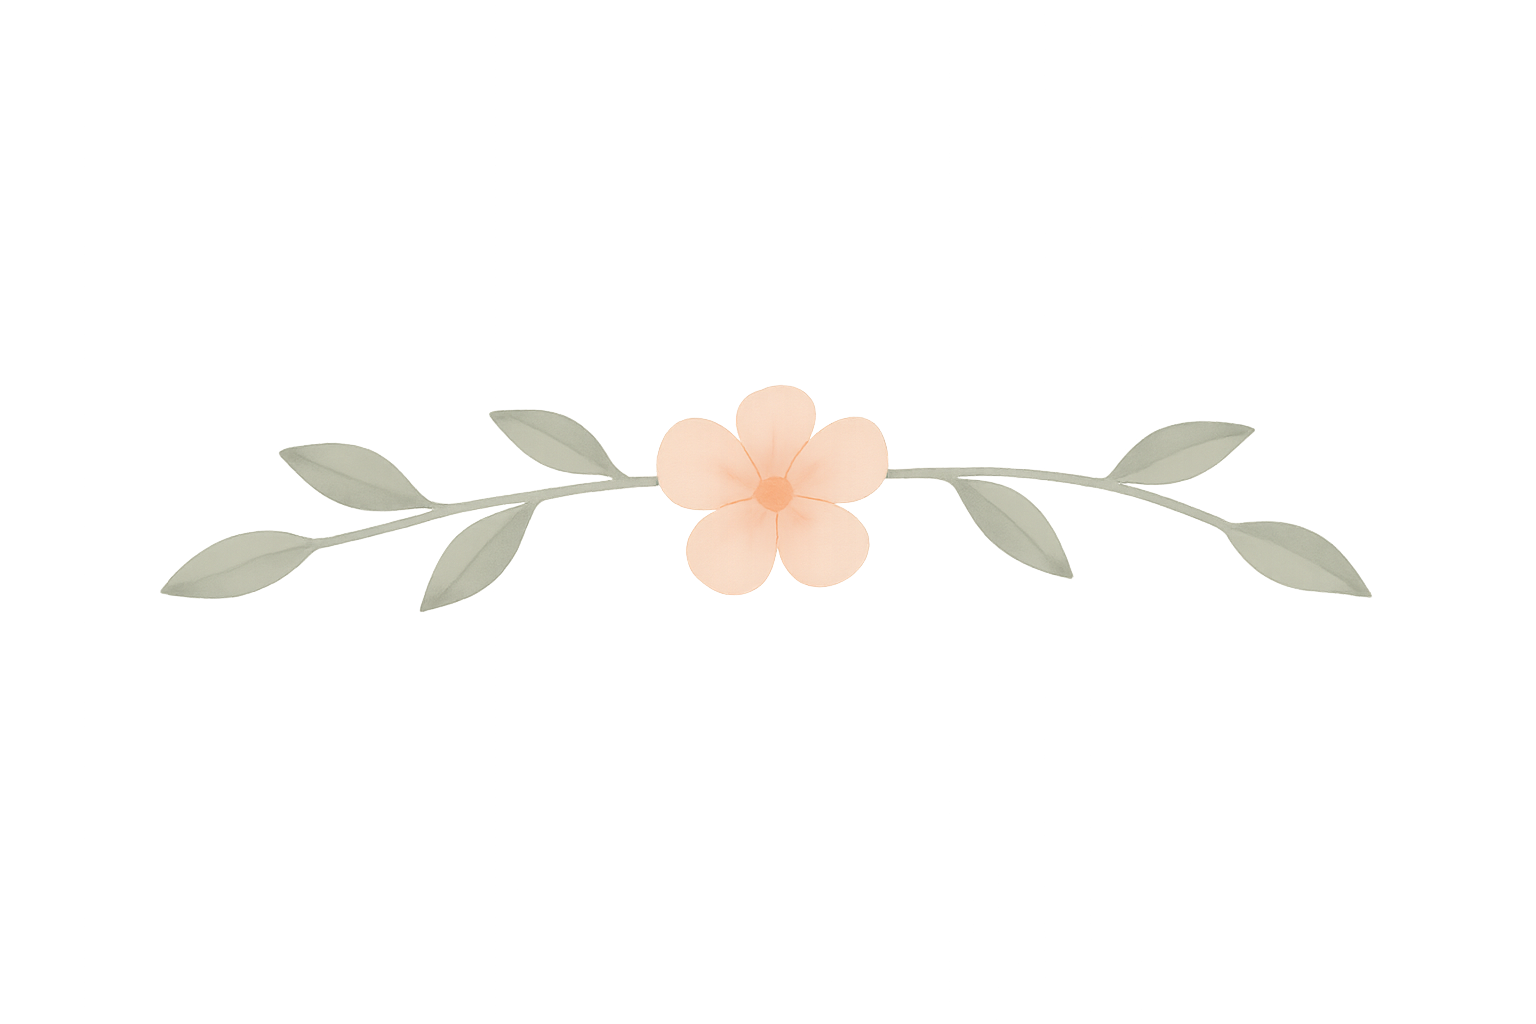
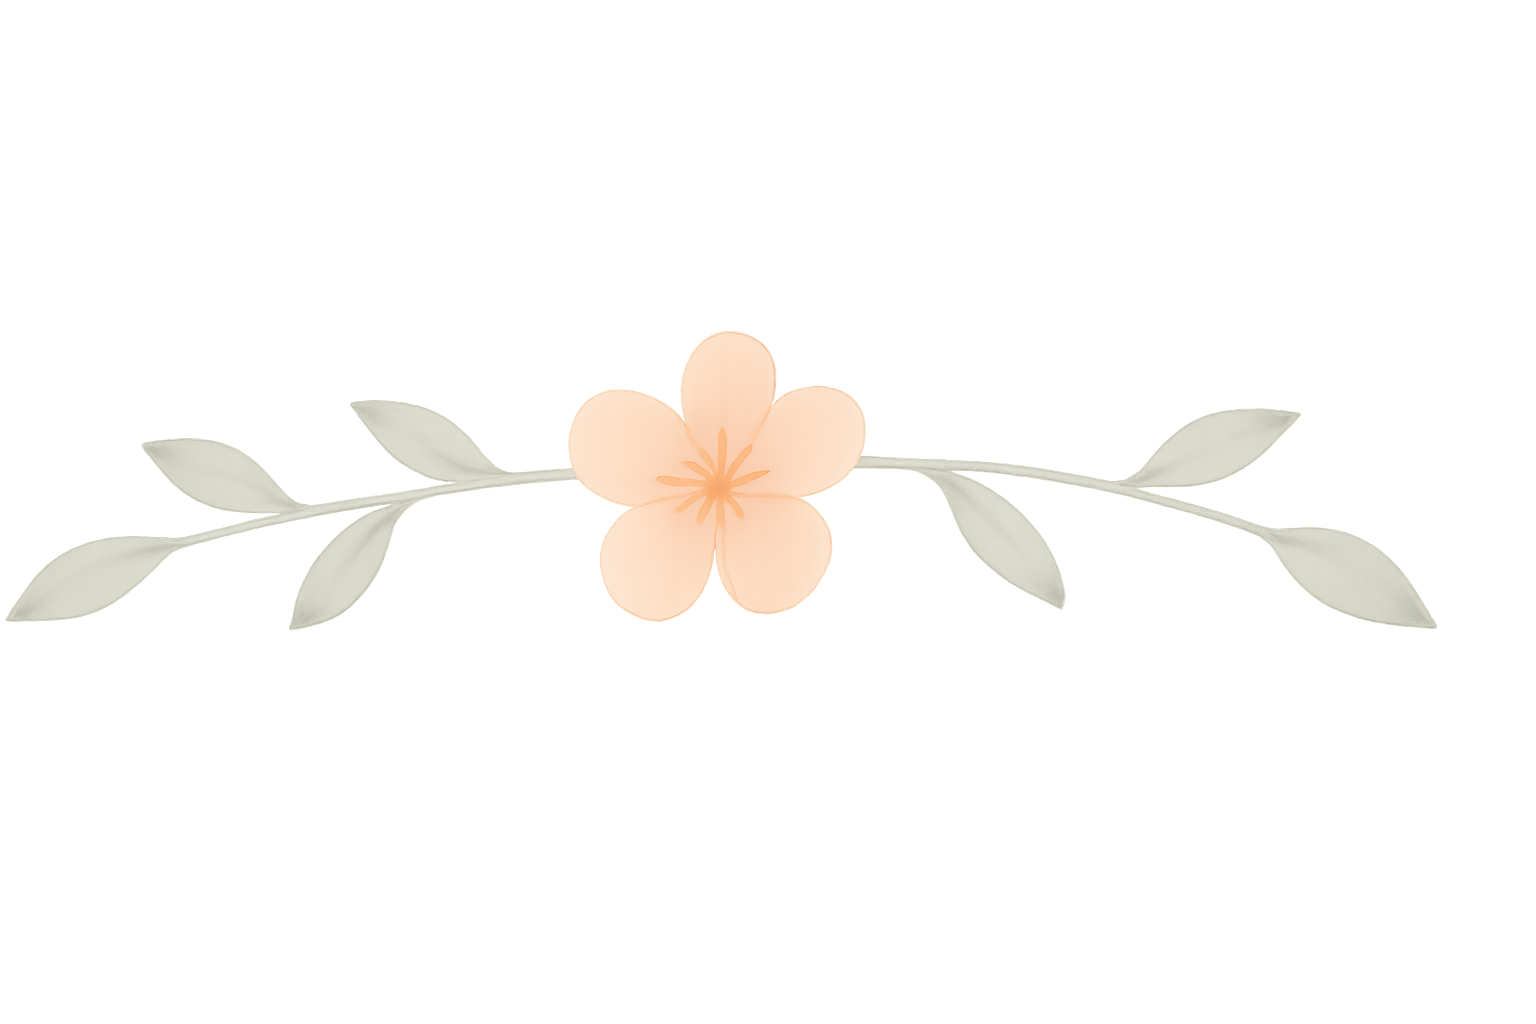
added horizontal separater and some images

Changed region(s): [[0.0, 0.3125, 0.8438, 0.625], [0.7812, 0.5, 0.9375, 0.625]]

diff --git a/frontend/app/globals.css b/frontend/app/globals.css
@@ -26,6 +26,55 @@ body {
 .container { max-width: 1060px; margin: 0 auto; padding: 0 20px; }
 .section { padding: 80px 0; position: relative; }
 .section.alt { background: rgba(255,255,255,0.6); backdrop-filter: blur(2px); }
+/* Set a shared height for the separators so side vines can align */
+.section + .section { --sep-h: clamp(48px, 10vw, 120px); }
+
+/* Horizontal vine separator between sections */
+.section + .section::before {
+  content: "";
+  display: block;
+  width: min(640px, calc(100% - 80px));
+  height: var(--sep-h);
+  margin: -12px auto 24px;
+  background-image: url('/vines-horizontal.png');
+  background-repeat: no-repeat;
+  background-position: center;
+  background-size: contain;
+  pointer-events: none;
+  filter: saturate(0.95);
+  opacity: 0.85;
+}
+
+/* Create flanking minimal vines tied to the section's container */
+.section + .section .container { position: relative; z-index: 0; }
+.section + .section .container > * { position: relative; z-index: 1; }
+.section + .section .container::before,
+.section + .section .container::after {
+  content: "";
+  position: absolute;
+  top: calc(-0.5 * var(--sep-h) - 76px);
+  width: var(--sep-h);
+  height: var(--sep-h);
+  background-image: url('/vines-left-minimal.png');
+  background-repeat: no-repeat;
+  background-position: center;
+  background-size: contain;
+  pointer-events: none;
+  filter: saturate(0.95);
+  opacity: 0.85;
+  z-index: 0; /* under content */
+}
+.section + .section .container::before { /* Left side - rotate 90° and mirror */
+  left: calc(50% - min(640px, calc(100% - 80px)) / 2 - var(--sep-h));
+  transform: rotate(90deg) scaleX(-1);
+  transform-origin: center;
+}
+.section + .section .container::after { /* Right side - rotate 270° */
+  right: calc(50% - min(640px, calc(100% - 80px)) / 2 - var(--sep-h));
+  transform: rotate(270deg);
+  transform-origin: center;
+}
+
 .section-title { font-size: 56px; margin: 0 0 16px; color: var(--ink); }
 .lead { font-size: 20px; line-height: 1.7; color: var(--ink-soft); }
 .muted { color: #5f6e6a; }
@@ -119,6 +168,14 @@ body {
   .section { padding: 48px 0; }
   .container { padding: 0 16px; }
   
+  /* Smaller separator on mobile */
+  .section + .section::before {
+    width: min(440px, calc(100% - 36px));
+    height: var(--sep-h);
+    margin: -6px auto 16px;
+  }
+  .section + .section { --sep-h: clamp(28px, 12vw, 64px); }
+  
   /* Fix RSVP form overflow */
   .rsvp-form { 
     flex-direction: column; 
@@ -198,40 +255,29 @@ body {
   background-position: top right; 
 }
 
-/* Bottom corner graphics */
-.vine-layer--bottom::before,
+/* Bottom corner graphics - right side only */
 .vine-layer--bottom::after {
   content: "";
   position: absolute;
   display: block;
   top: auto;
   bottom: 0;
+  right: -40px;
+  left: auto;
   width: clamp(160px, 22vw, 400px);
   height: min(50vh, 500px);
   background-image: url('/vines.png');
   background-repeat: no-repeat;
-  background-position: bottom left;
+  background-position: bottom right;
   background-size: contain;
-}
-.vine-layer--bottom::before { 
-  left: -40px; 
-  right: auto; 
-  transform: scaleY(-1); 
-  transform-origin: left bottom; 
-}
-.vine-layer--bottom::after { 
-  right: -40px; 
-  left: auto; 
-  transform: scale(-1, -1); 
-  transform-origin: right bottom; 
-  background-position: bottom right; 
+  transform: scaleX(-1);
+  transform-origin: right bottom;
 }
 
 /* Desktop enhancement - use original full vines */
 @media (min-width: 901px) {
   .vine-layer--top::before,
   .vine-layer--top::after,
-  .vine-layer--bottom::before,
   .vine-layer--bottom::after {
     background-image: url('/vines.png');
     width: clamp(260px, 28vw, 560px);
@@ -262,15 +308,13 @@ body {
 @media (max-width: 900px) {
   .vine-layer--top::before,
   .vine-layer--top::after,
-  .vine-layer--bottom::before,
   .vine-layer--bottom::after {
     width: clamp(180px, 32vw, 400px);
     height: min(60vh, 500px);
   }
   
   /* Align vines with screen edges on mobile */
-  .vine-layer--top::before,
-  .vine-layer--bottom::before {
+  .vine-layer--top::before {
     left: 0px;
   }
   .vine-layer--top::after,
@@ -292,15 +336,13 @@ body {
   } */
   .vine-layer--top::before,
   .vine-layer--top::after,
-  .vine-layer--bottom::before,
   .vine-layer--bottom::after {
     width: clamp(180px, 32vw, 400px);
     height: min(60vh, 500px);
   }
   
   /* Move vines to the left on smallest screens */
-  .vine-layer--top::before,
-  .vine-layer--bottom::before {
+  .vine-layer--top::before {
     left: -10px;
   }
   .vine-layer--top::after,

diff --git a/frontend/app/page.js b/frontend/app/page.js
@@ -35,7 +35,7 @@ export default function Home() {
           <p className="hero-subtitle">Join us as we celebrate our big day</p>
           <div className="hero-image">
             <img
-              src="https://placehold.co/1200x600/FCD3C1/F9B69F?text=Your+Photo+Here"
+              src="main.jpg"
               alt="Placeholder for wedding photo"
             />
           </div>
@@ -46,7 +46,7 @@ export default function Home() {
             </div>
             <div>
               <span className="label">Location</span>
-              <span className="value">To Be Announced</span>
+              <span className="value">545 Vallombrosa Ave, Chico CA</span>
             </div>
           </div>
         </div>
@@ -91,7 +91,7 @@ export default function Home() {
           <h2 className="title-font section-title">Helpful Links</h2>
           <div className="links-grid">
             <a className="btn outline" href="#" target="_blank" rel="noreferrer">Registry (Coming Soon)</a>
-            <a className="btn outline" href="#" target="_blank" rel="noreferrer">Honeymoon Fund (Coming Soon)</a>
+            <a className="btn outline" href="https://www.honeyfund.com/site/burns-monti-05-31-2026?no_gdpr=1" target="_blank" rel="noreferrer">Honeymoon Fund</a>
             <a className="btn outline" href="#" target="_blank" rel="noreferrer">Hotel & Travel (Coming Soon)</a>
           </div>
         </div>
